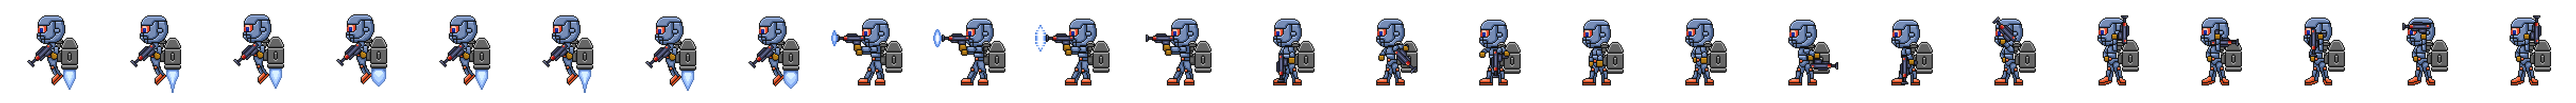
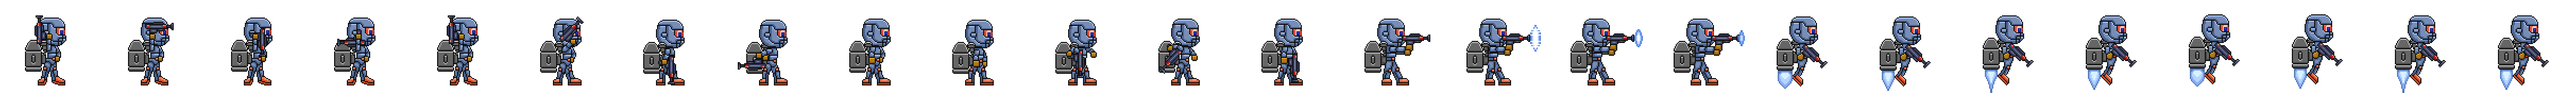
flipped png horizontally

Changed region(s): [[0.0, 0.1237, 0.9963, 0.8351]]

diff --git a/script.js b/script.js
@@ -126,6 +126,10 @@ function handleProjectiles(){
 
 
 // DEFENDERS -------------------------------------------------------------------------------------------------------------------
+const defender1 = new Image();
+defender1.src = './Images/defender1.png';
+
+
 
 class Defender {
     constructor(x, y){
@@ -137,6 +141,12 @@ class Defender {
         this.health = 100;
         this.projectiles = [];
         this.timer = 0;
+        this.frameX = 0;
+        this.frameY = 0;
+        this.minFrame = 0;
+        this.maxFrame = 16;
+        this.spriteWidth = 194;
+        this.spriteHeight = 194;
     }
     draw(){
         ctx.fillStyle = 'blue';
